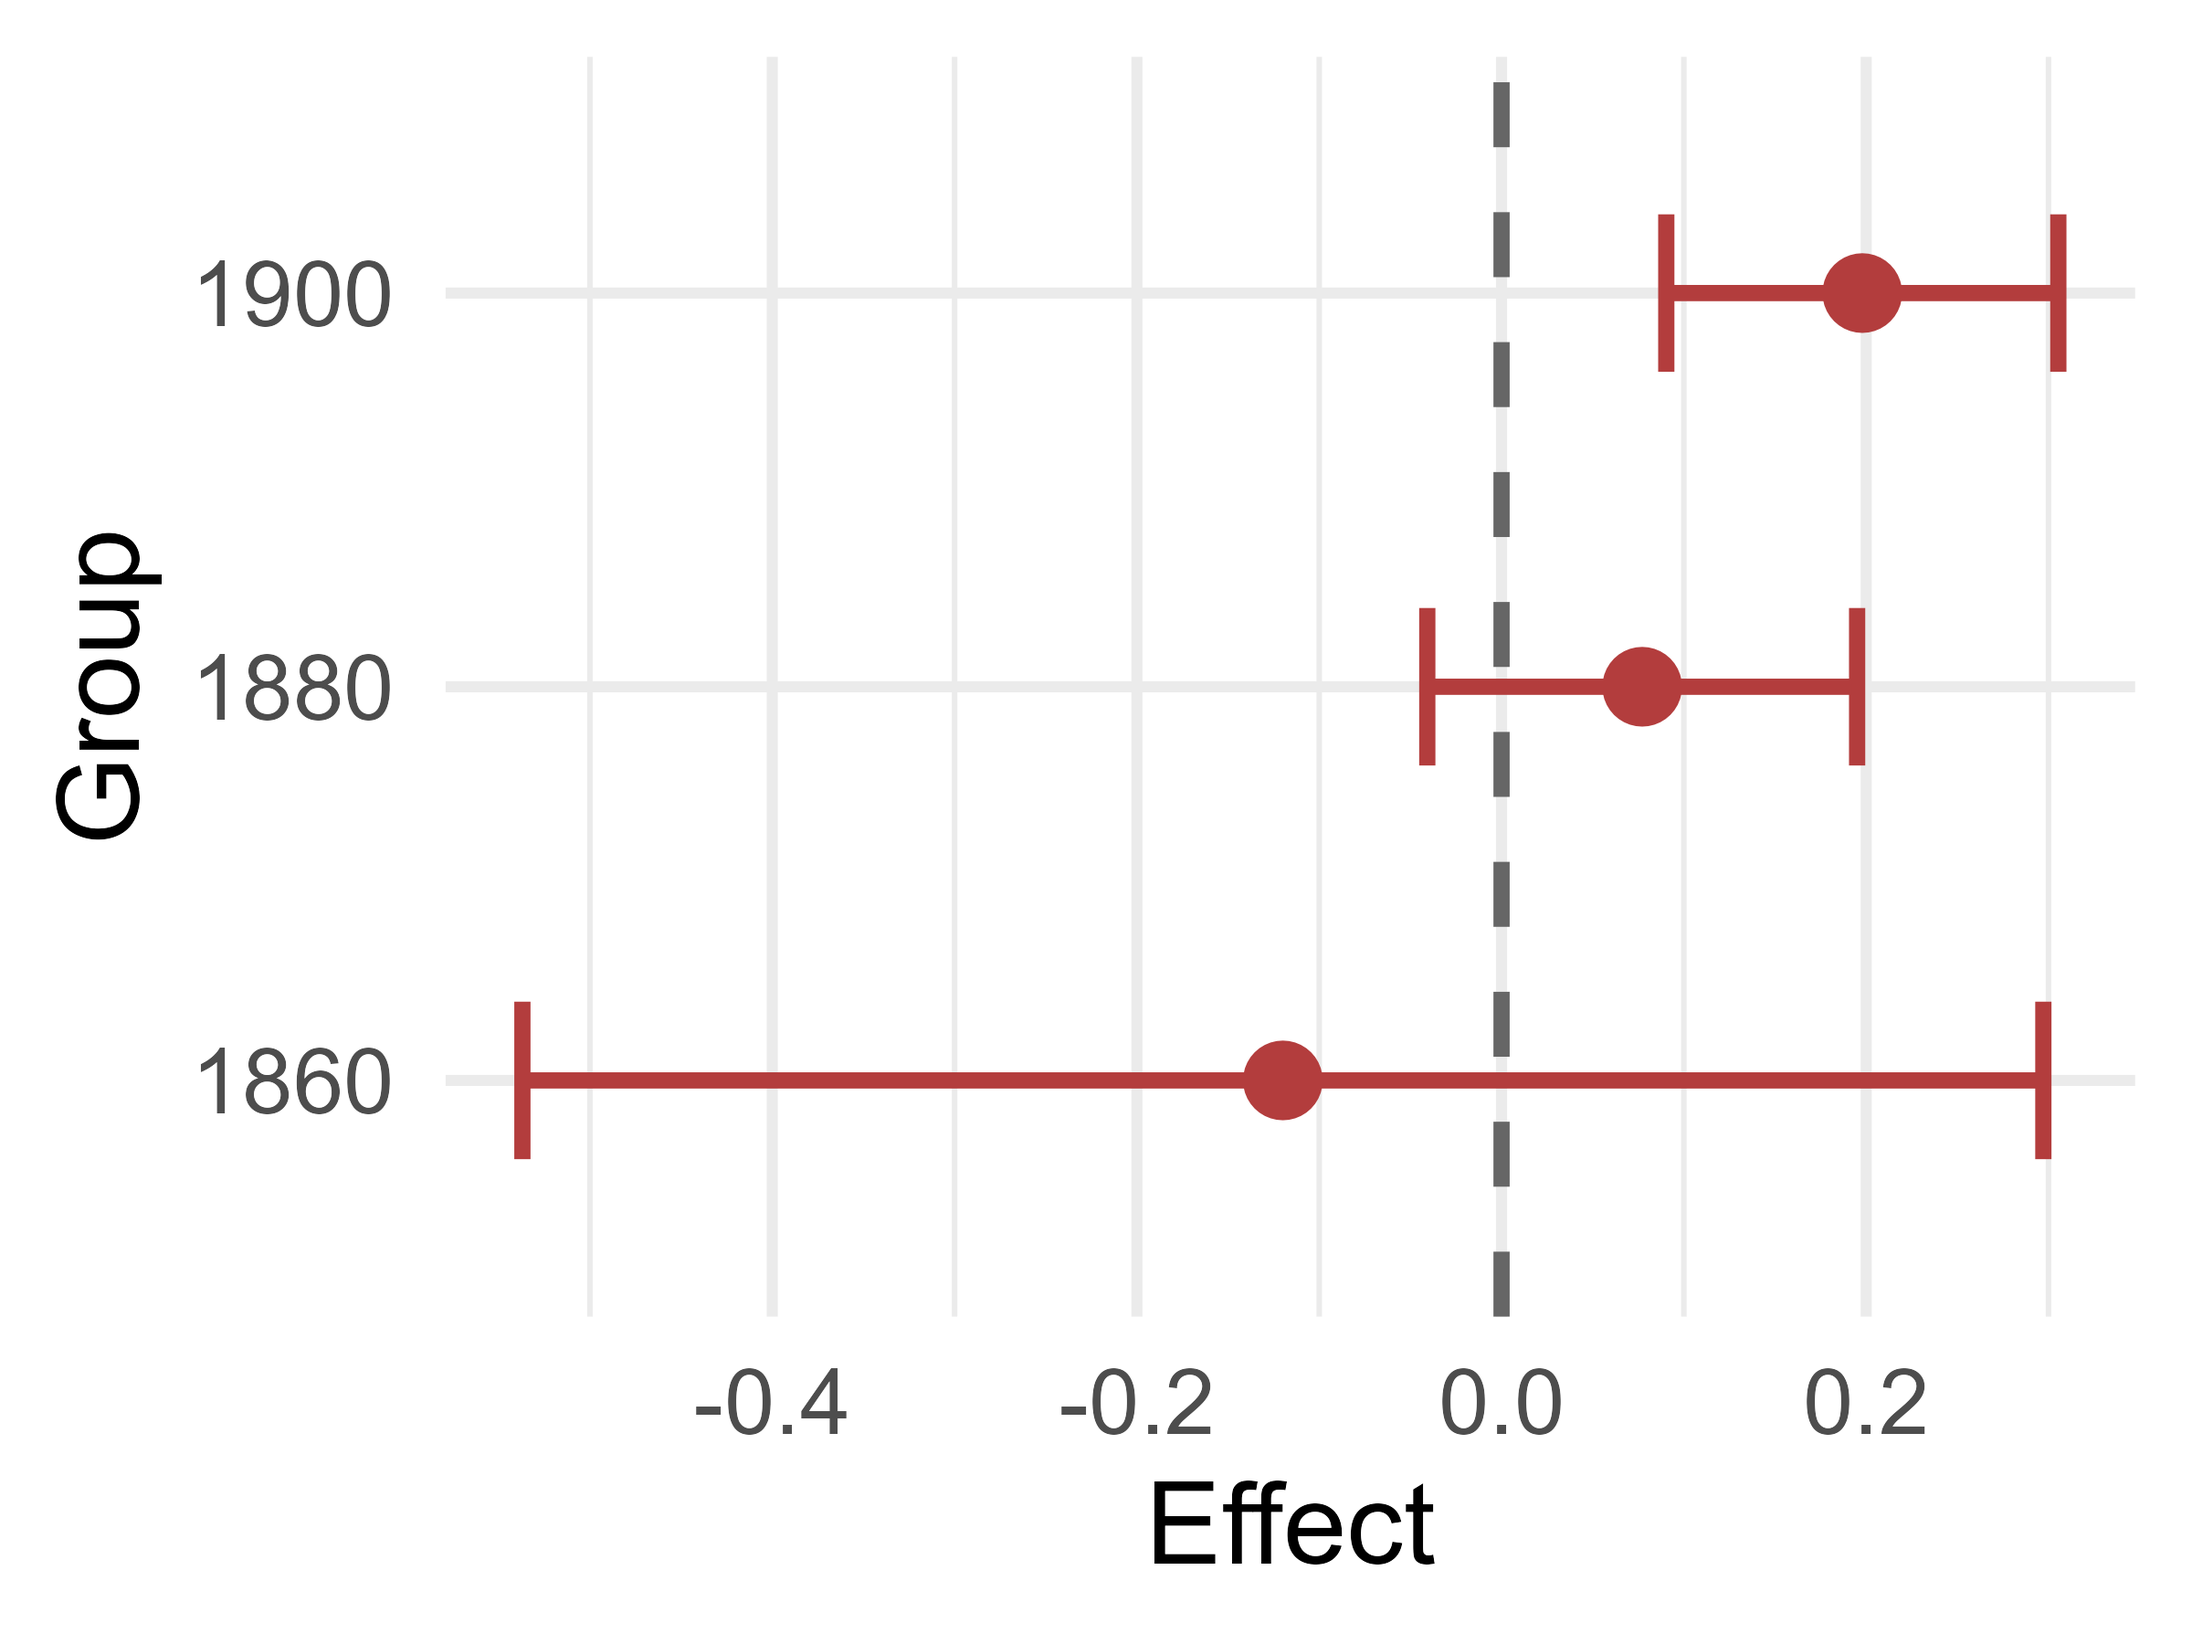
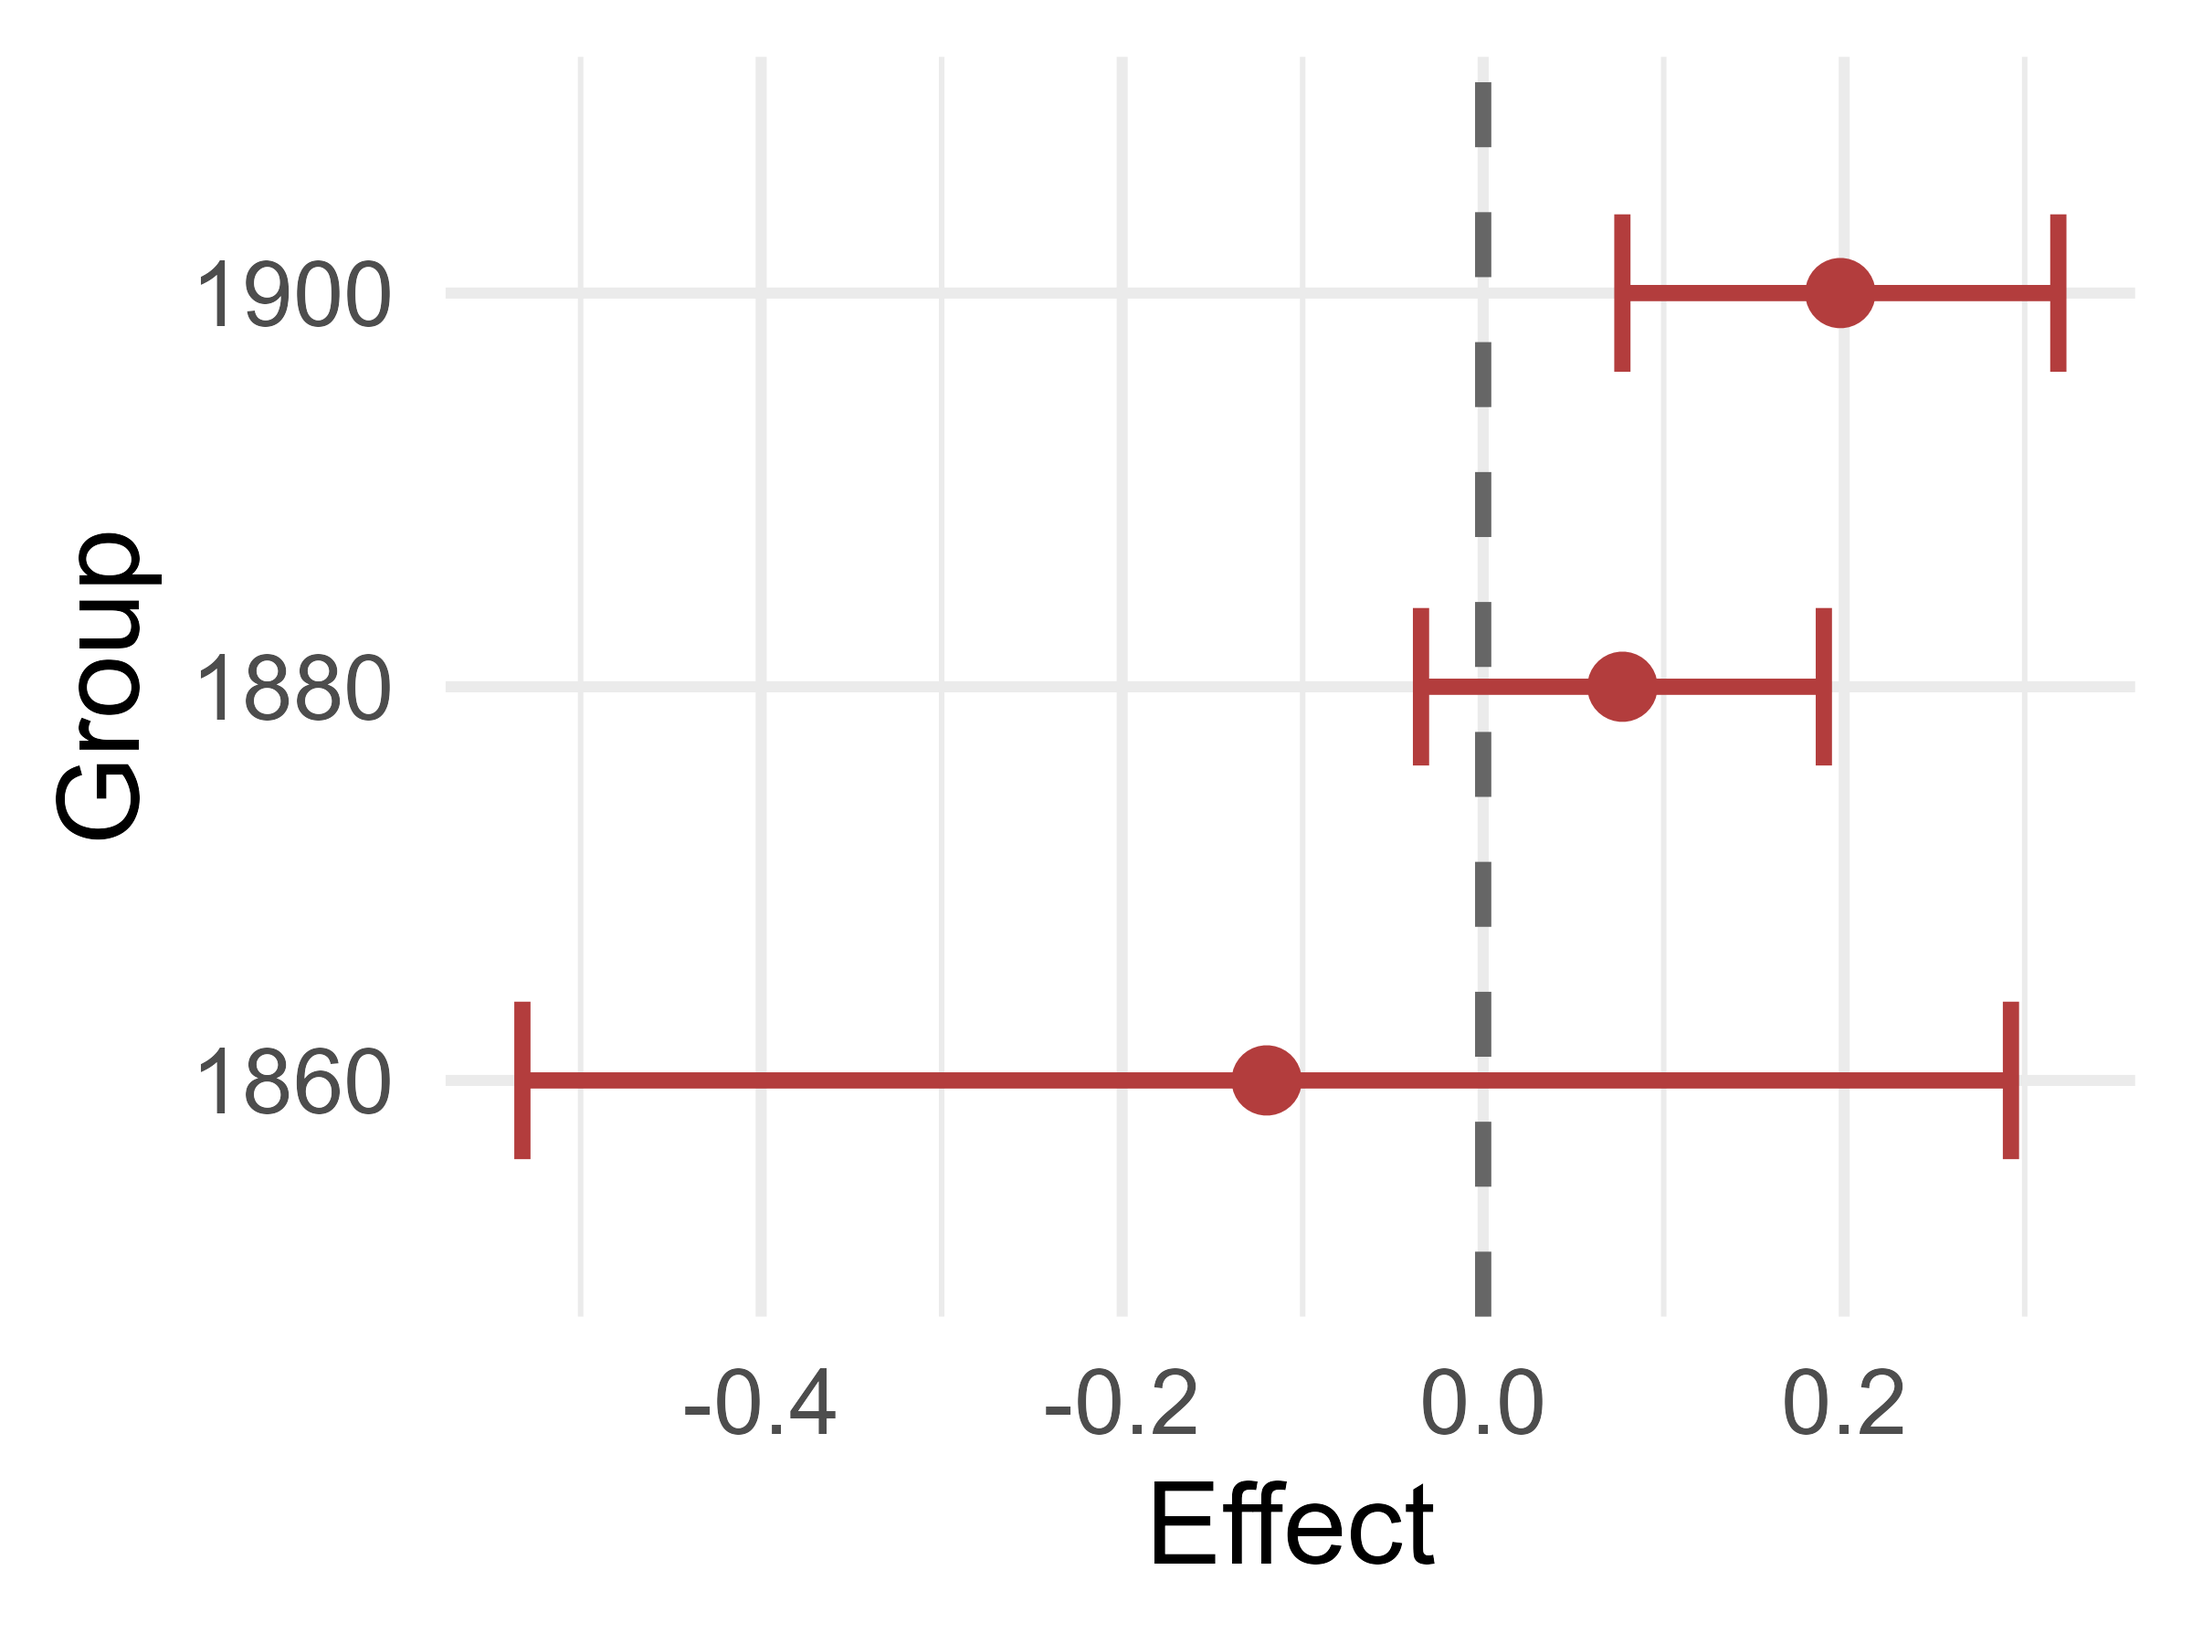
Rerun script

diff --git a/Tables/railways_and_development_controls_clustered_county.tex b/Tables/railways_and_development_controls_clustered_county.tex
@@ -5,15 +5,14 @@
   \midrule
   \multicolumn{7}{l}{\textbf{A. TWFE estimates}}\\
   Connected railway &  0.0664 & 0.0016 & 0.0173 & 0.0186 & 0.0862 & 0.1353  \\
-                    &  (0.0094)$^{***}$ & (0.0047)$^{}$ & (0.0032)$^{***}$ & (0.0039)$^{***}$ & (0.0641)$^{}$ & (0.0397)$^{***}$  \\
-                    &  [0.0159]$^{***}$ & [0.0085]$^{}$ & [0.0052]$^{***}$ & [0.0062]$^{***}$ & [0.0875]$^{}$ & [0.0690]$^{**}$  \\
+                    &  (0.0089)$^{***}$ & (0.0050)$^{}$ & (0.0030)$^{***}$ & (0.0039)$^{***}$ & (0.0657)$^{}$ & (0.0459)$^{***}$  \\
   \cmidrule(lr){2-7}
   Observations      &  6356 & 6336 & 6346 & 6346 & 6355 & 6264  \\
   Mean of outcome   &  6.4738 & 0.4883 & 0.2559 & 0.3496 & 48.6308 & 4.4198  \\
   \midrule
   \multicolumn{7}{l}{\textbf{B. Callaway and Sant'Anna estimates}}\\
   Connected railway &  0.0703 & 0.0050 & 0.0177 & 0.0203 & 0.1252 & 0.0998  \\
-                    &  (0.0099)$^{***}$ & (0.0050)$^{}$ & (0.0035)$^{***}$ & (0.0046)$^{***}$ & (0.0741)$^{*}$ & (0.0463)$^{**}$  \\
+                    &  (0.0106)$^{***}$ & (0.0050)$^{}$ & (0.0035)$^{***}$ & (0.0046)$^{***}$ & (0.0982)$^{}$ & (0.0481)$^{**}$  \\
   \cmidrule(lr){2-7}
   Observations      &  6320 & 6240 & 6280 & 6280 & 6316 & 6000  \\
   Mean of outcome   &  6.4716 & 0.4884 & 0.2555 & 0.3489 & 48.6185 & 4.4884  \\

diff --git a/Tables/railways_and_development.tex b/Tables/railways_and_development.tex
@@ -12,7 +12,7 @@
   \midrule
   \multicolumn{7}{l}{\textbf{B. Callaway and Sant'Anna estimates}}\\
   Connected railway &  0.0656 & 0.0010 & 0.0176 & 0.0185 & 0.2122 & 0.1086  \\
-                    &  (0.0113)$^{***}$ & (0.0049)$^{}$ & (0.0035)$^{***}$ & (0.0043)$^{***}$ & (0.0732)$^{***}$ & (0.0434)$^{**}$  \\
+                    &  (0.0111)$^{***}$ & (0.0049)$^{}$ & (0.0034)$^{***}$ & (0.0042)$^{***}$ & (0.0680)$^{***}$ & (0.0436)$^{**}$  \\
   \cmidrule(lr){2-7}
   Observations      &  6324 & 6244 & 6284 & 6284 & 6320 & 6004  \\
   Mean of outcome   &  6.4722 & 0.4884 & 0.2556 & 0.3491 & 48.6194 & 4.4896  \\
